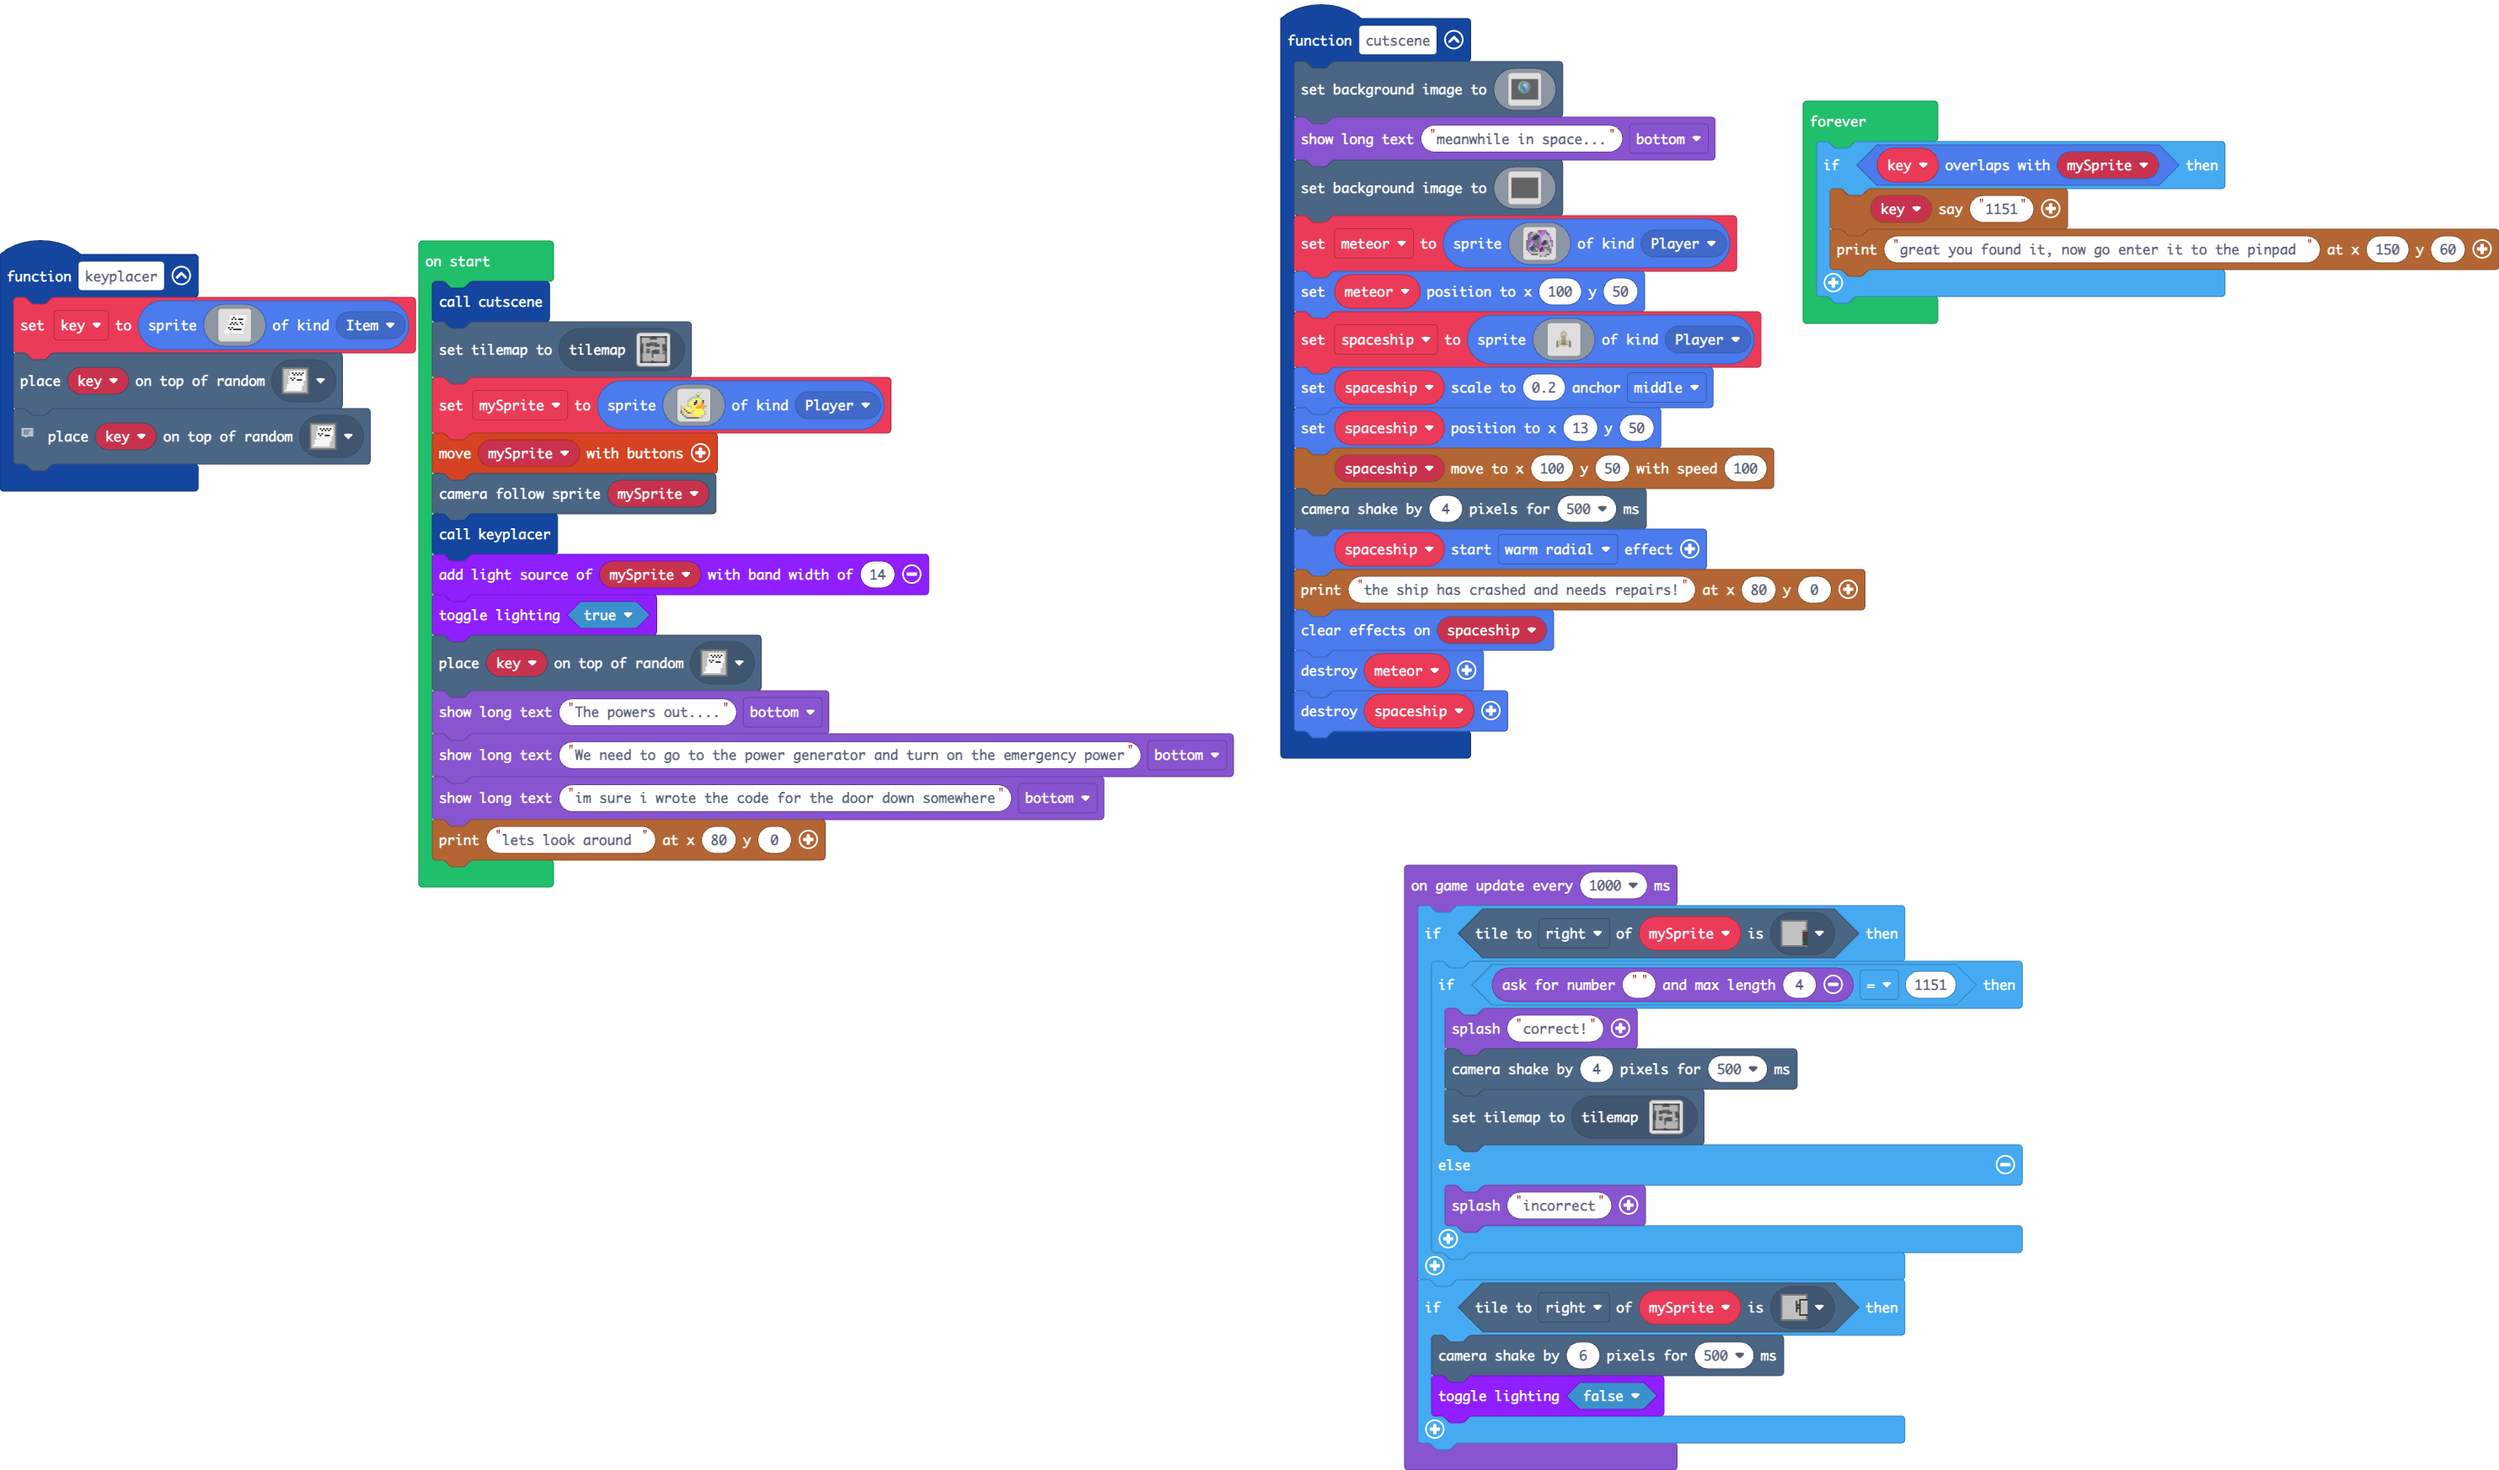
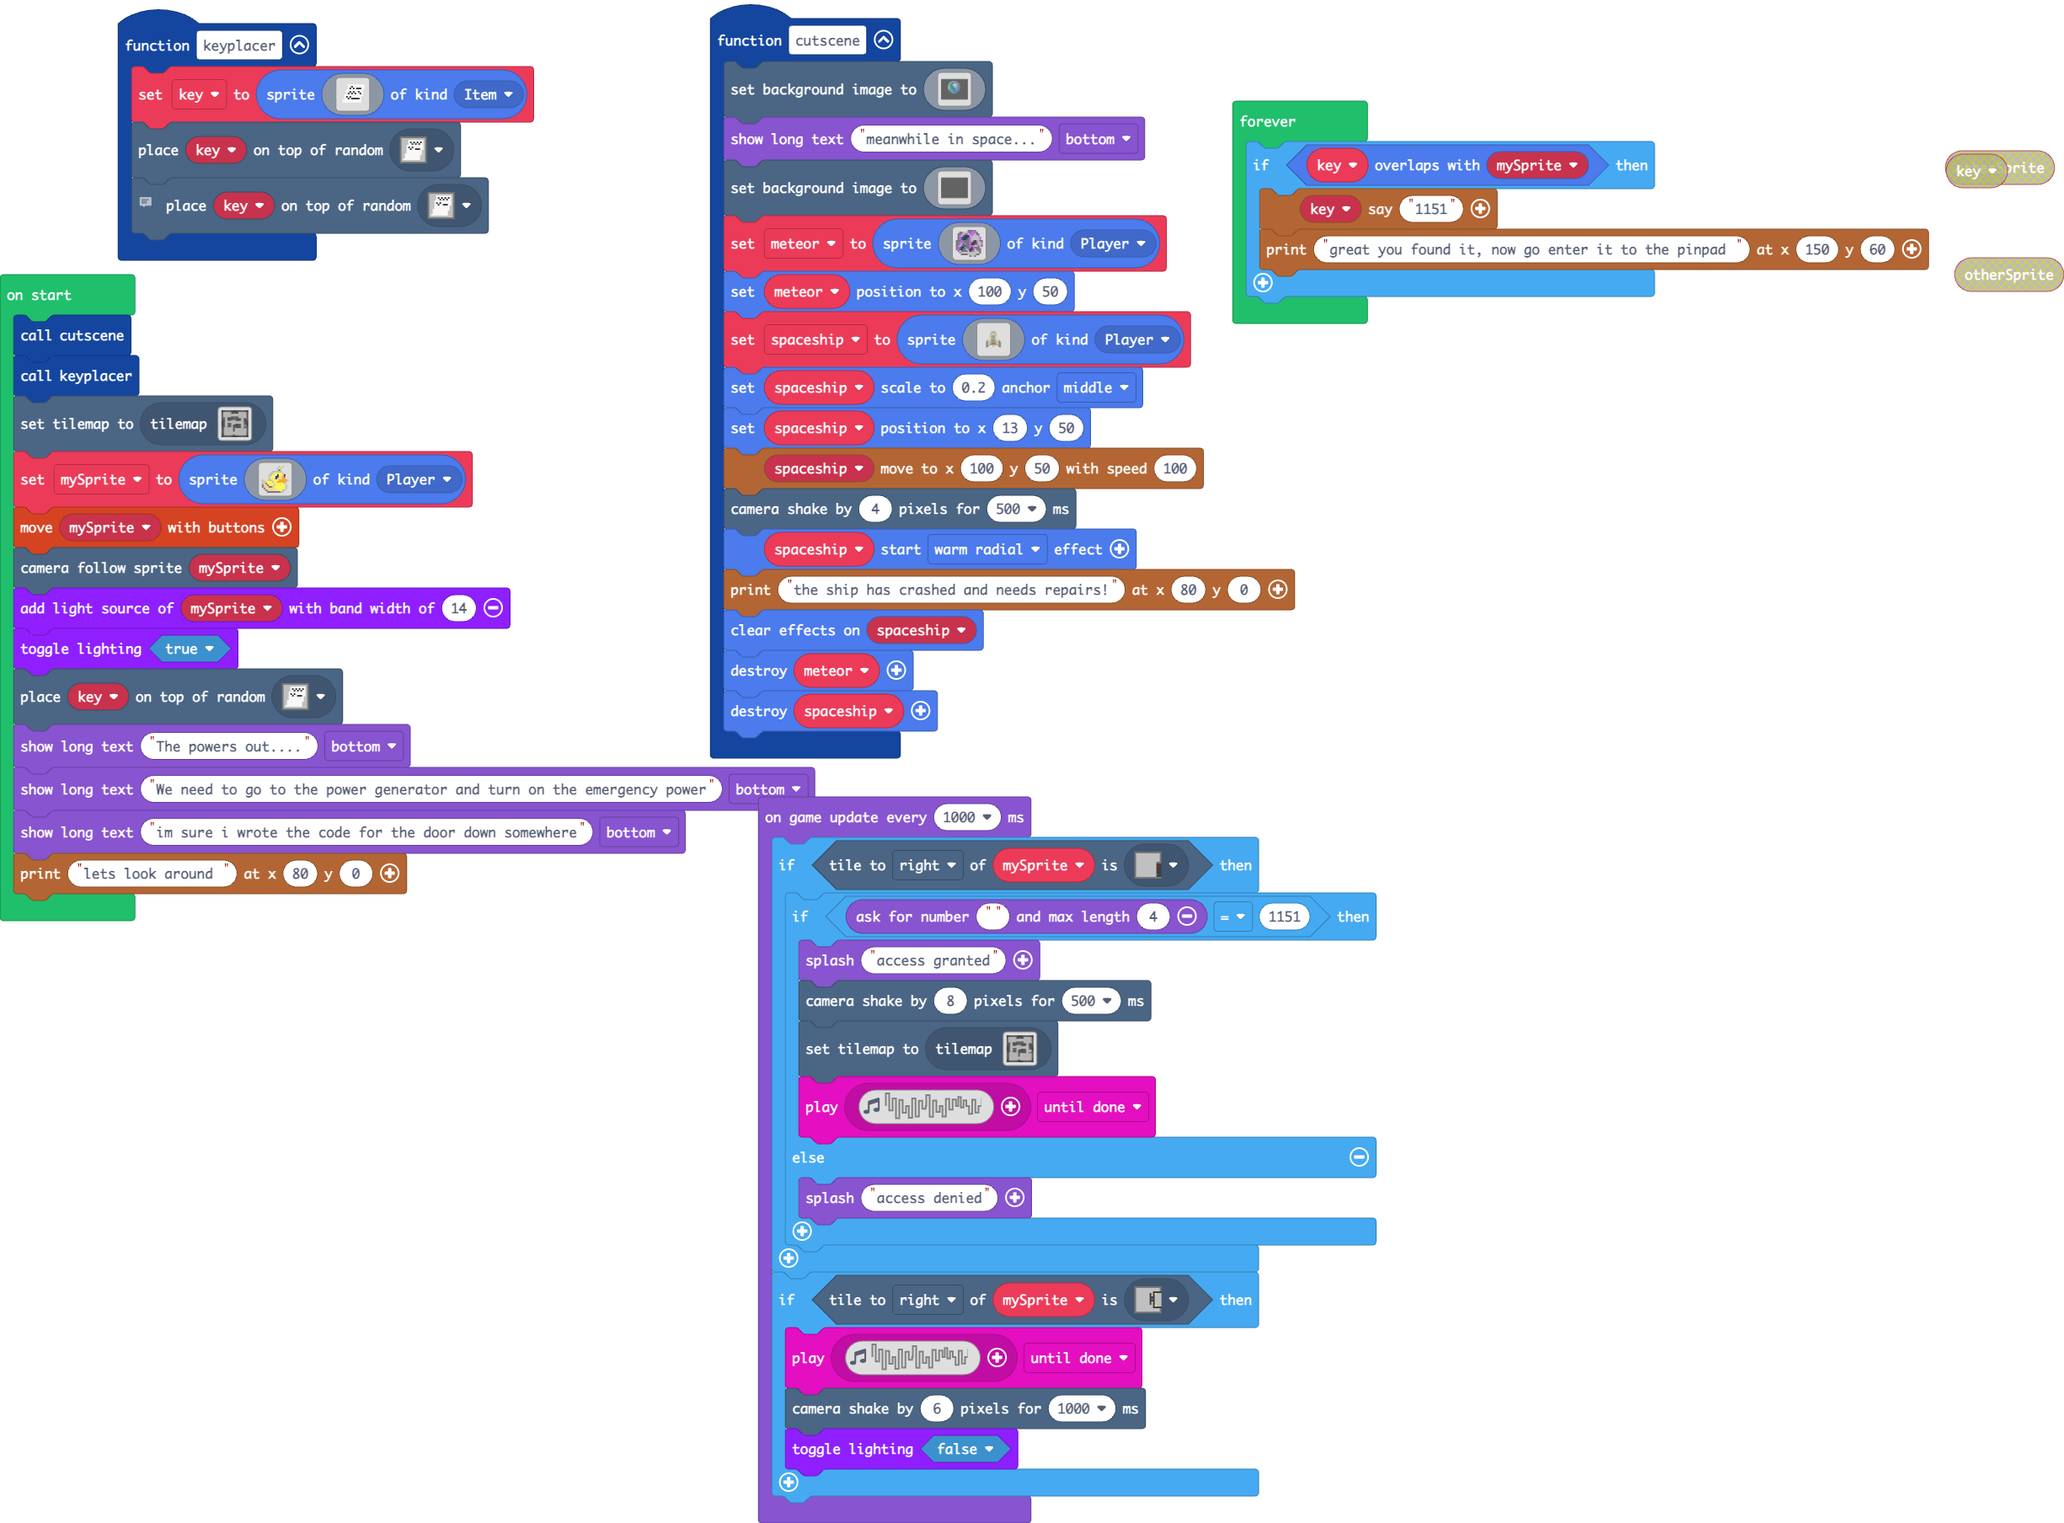
Update pxt.json, main.blocks, main.ts, tilemap.g.jres, tilemap.g.ts, images.g.jres, images.g.ts

diff --git a/tilemap.g.ts b/tilemap.g.ts
@@ -256,6 +256,39 @@ namespace myTiles {
 . . . . . . . . . . . . . . . . 
 . . . . . . . . . . . . . . . . 
 `, [myTiles.transparency16], TileScale.Sixteen);
+            case "minimap":
[1 lines of base64/hex data omitted]
+..............................
+.22222222222......22222222222.
+.2.........2......2.........2.
+.2.........22222222.........2.
+.2..........................2.
+.2..........................2.
+.2..........................2.
+.2.........22222222.........2.
+.222...22222......2.........2.
+...2...2..........2222...2222.
+...2...2..2222222....2...2....
+...2...2222.....222222...2....
+...2.....................2....
+...2.....................2....
+...2...2222..............2....
+...2...2..2.....222222...2222.
+...2...2..2..222222222...2222.
+...2...2..2..222222222...2222.
+...2...2222..222222222...2222.
+..2..........222222222...2222.
+..2..........22.............2.
+..2..........22.............2.
+..2..........22.............2.
+..2..........22.............2.
+..2.........................2.
+..2.........................2.
+..2.........................2.
+..2..........22.............2.
+...2222222222..22222222222222.
+..............................
+`, [myTiles.transparency16,myTiles.tile5,myTiles.tile8,myTiles.tile1,myTiles.tile2,myTiles.tile3,myTiles.tile6], TileScale.Sixteen);
             case "level11":
             case "level11":return tiles.createTilemap(hex`1000100000000000000000000000000000000000000000000000000000000000000000000000000000000000000000000000000000000000000000000000000000000000000000000000000000000000000000000000000000000000000000000000000000000000000000000000000000000000000000000000000000000000000000000000000000000000000000000000000000000000000000000000000000000000000000000000000000000000000000000000000000000000000000000000000000000000000000000000000000000000000000000000000000000000000000000000000000000000000000000000000000000000000000000000000000000000`, img`
 . . . . . . . . . . . . . . . . 

diff --git a/main.ts b/main.ts
@@ -29,11 +29,11 @@ let spaceship: Sprite = null
 let meteor: Sprite = null
 let key: Sprite = null
 cutscene()
+keyplacer()
 tiles.setCurrentTilemap(tilemap`map in doors`)
 let mySprite = sprites.create(assets.image`duck`, SpriteKind.Player)
 controller.moveSprite(mySprite)
 scene.cameraFollowSprite(mySprite)
-keyplacer()
 multilights.addLightSource(mySprite, 14)
 multilights.toggleLighting(true)
 tiles.placeOnRandomTile(key, assets.tile`Tile0`)
@@ -44,15 +44,17 @@ story.printText("lets look around ", 80, 0)
 game.onUpdateInterval(1000, function () {
     if (mySprite.tileKindAt(TileDirection.Right, assets.tile`Tile2`)) {
         if (game.askForNumber("", 4) == 1151) {
-            game.splash("correct!")
-            scene.cameraShake(4, 500)
+            game.splash("access granted")
+            scene.cameraShake(8, 500)
             tiles.setCurrentTilemap(tilemap`lemap`)
+            music.play(music.createSoundEffect(WaveShape.Noise, 794, 1599, 255, 104, 500, SoundExpressionEffect.None, InterpolationCurve.Linear), music.PlaybackMode.UntilDone)
         } else {
-            game.splash("incorrect")
+            game.splash("access denied")
         }
     }
     if (mySprite.tileKindAt(TileDirection.Right, assets.tile`myTile0`)) {
-        scene.cameraShake(6, 500)
+        music.play(music.createSoundEffect(WaveShape.Noise, 794, 1599, 255, 104, 500, SoundExpressionEffect.None, InterpolationCurve.Linear), music.PlaybackMode.UntilDone)
+        scene.cameraShake(6, 1000)
         multilights.toggleLighting(false)
     }
 })

diff --git a/images.g.ts b/images.g.ts
@@ -526,6 +526,25 @@ ffffffffffffffffffffffffffffffffffffffffffffffffffffffffffffffffffffffffffffffff
 ...............................................................................................................................................................
 ...............................................................................................................................................................
 `;
+            case "image4":
+            case "dot":return img`
+. . . . . . . . . . . . . . . . 
+. . . . . . . . . . . . . . . . 
+. . . . . . . . . . . . . . . . 
+. . . . . 2 2 2 2 2 . . . . . . 
+. . . . 2 2 2 2 2 2 2 2 . . . . 
+. . . 2 2 2 2 2 2 2 2 2 2 . . . 
+. . . 2 2 2 2 2 2 2 2 2 2 . . . 
+. . 2 2 2 2 2 2 2 2 2 2 2 2 . . 
+. . 2 2 2 2 2 2 2 2 2 2 2 2 . . 
+. . . 2 2 2 2 2 2 2 2 2 2 2 . . 
+. . . 2 2 2 2 2 2 2 2 2 2 . . . 
+. . . . 2 2 2 2 2 2 2 2 2 . . . 
+. . . . . 2 2 2 2 2 2 2 . . . . 
+. . . . . . . . . . . . . . . . 
+. . . . . . . . . . . . . . . . 
+. . . . . . . . . . . . . . . . 
+`;
         }
         return null;
     })
